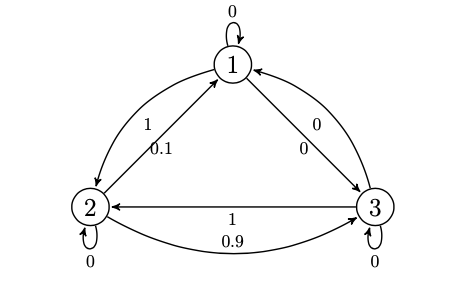
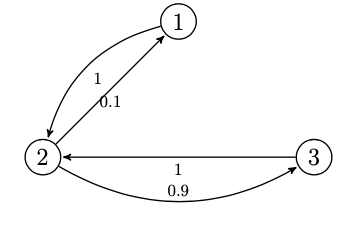
markov_post

diff --git a/images/Latex images/allthingsmarkov/Images.tex b/images/Latex images/allthingsmarkov/Images.tex
@@ -33,15 +33,14 @@
   \node[main node] (3) [below right of=1] {$3$};
 
   \path
-    (1) edge [loop above] node {0} (1)
+    (1)
         edge [bend right] node {1} (2)
-        edge node [below]{0}(3)
+
     (2) edge node [below]{0.1} (1)
-        edge [loop below] node {0} (2)
+
         edge [bend right] node {0.9} (3)
-    (3) edge [bend right] node {0} (1)
-        edge node[below] {1} (2)
-        edge [loop below] node {0} (3);
+    (3)
+        edge node[below] {1} (2);
 \end{tikzpicture}
 
 
